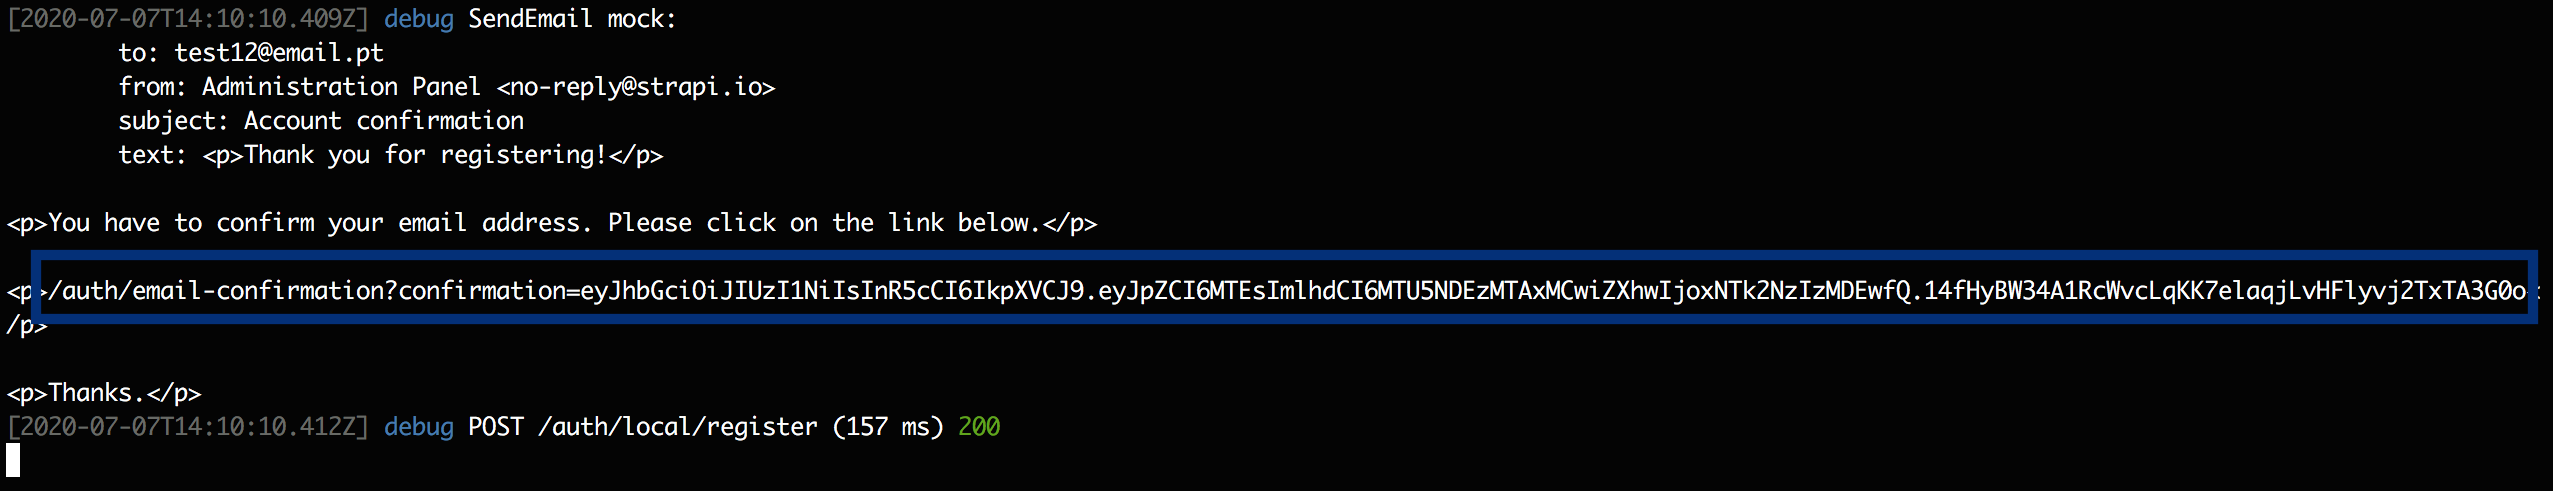
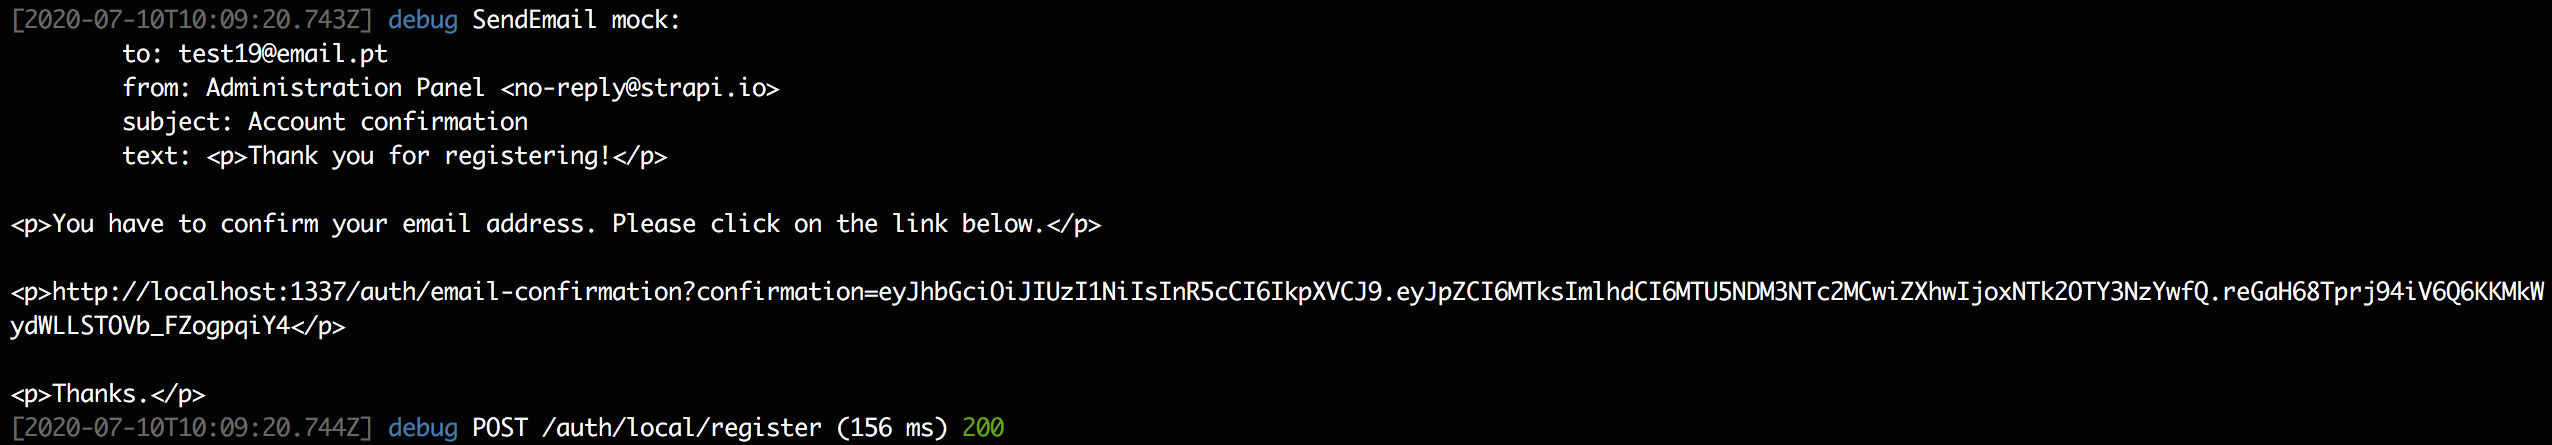
added section Configure Strapi's Server URL

diff --git a/strapi-nuxt.md b/strapi-nuxt.md
@@ -565,6 +565,35 @@ To specify this link, from the left sidebar of the Admin dashboard, click
 
 ![Strapi Redirect After Confirmation](./strapi-nuxt-redirect-after-confirmation.png)
 
+### Configure Strapi's Server URL
+
+We also need to configure Strapi's public URL. This URL will be used to prefix
+the confirmation link that's sent.
+
+Create a `.env` file by copying the `.env.example` that's in the project root:
+
+```shell
+cp .env.example .env
+```
+
+Edit `.env` and add the `URL` environment variable:
+
+```
+URL=http://localhost:1337
+```
+
+Edit `./config/server.js` and add the `url` property:
+
+```javascript
+url: env("URL", "http://localhost:1337"),
+```
+
+> Note that we've set this configuration in the development environment. In
+> production, you'll probably want to have SSL, so you'll also need to install
+> and configure an upstream proxy application, such as Nginx - and [make Strapi
+> aware of
+> it](https://strapi.io/documentation/v3.x/deployment/nginx-proxy.html).
+
 ### Testing Register
 
 We're now ready to test the register feature.
